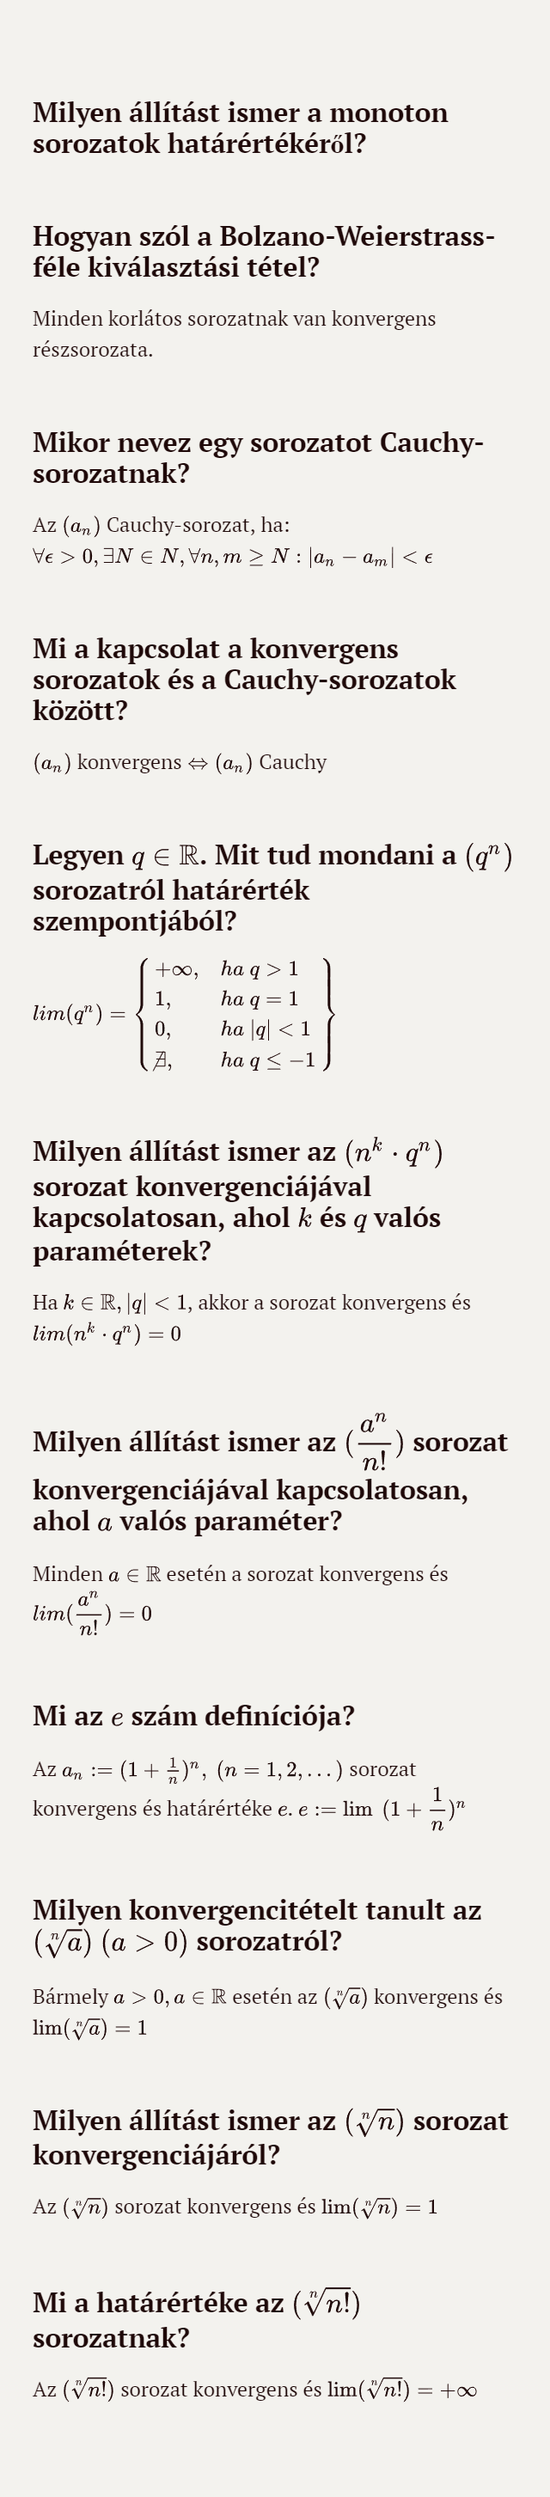
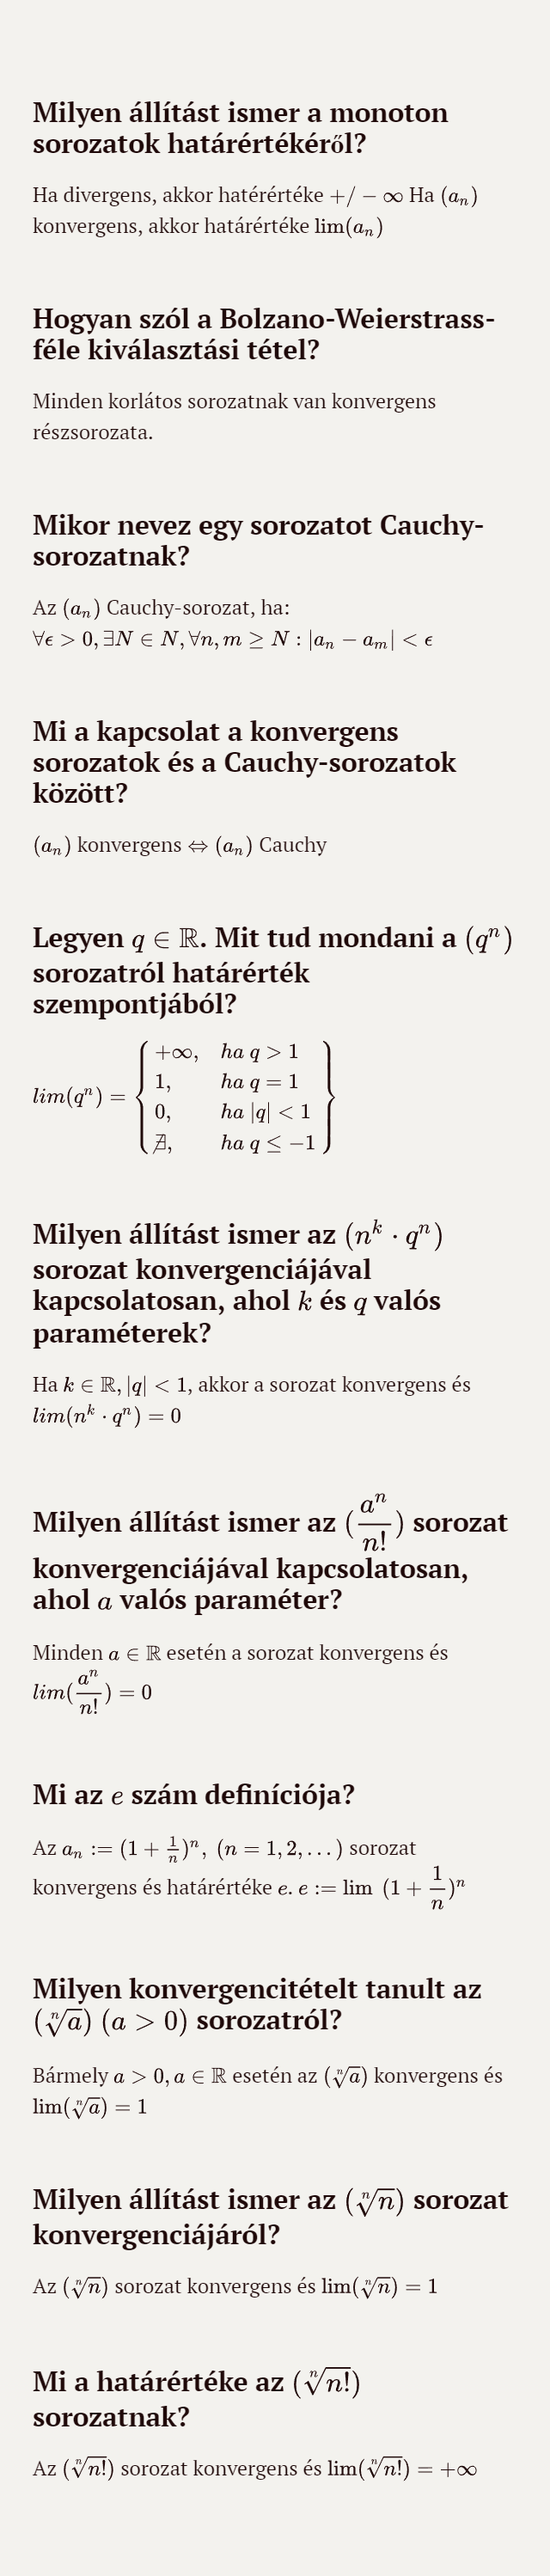
Updated anal def 6

Changed region(s): [[0.0625, 0.031, 0.9375, 0.9601], [0.75, 0.8362, 0.9375, 0.8672], [0.6875, 0.9291, 0.7188, 0.9601]]

diff --git a/2_félév/analízis/6_definiciok.md b/2_félév/analízis/6_definiciok.md
@@ -1,5 +1,8 @@
 ## Milyen állítást ismer a monoton sorozatok határértékéről?
 
+Ha divergens, akkor hatérértéke $+/- \infty$
+Ha $(a_n)$ konvergens, akkor határértéke $\lim(a_n)$
+
 ## Hogyan szól a Bolzano-Weierstrass-féle kiválasztási tétel?
 
 Minden korlátos sorozatnak van konvergens részsorozata.
